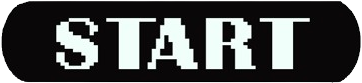
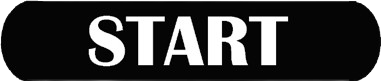
Buttons

diff --git a/core/src/main/java/io/github/testcar/GameoverMenu.java b/core/src/main/java/io/github/testcar/GameoverMenu.java
@@ -49,7 +49,7 @@ public class GameoverMenu implements Screen {
         Gdx.input.setInputProcessor(stage);
 
         // Play button texture
-        Texture resumebuttonTexture = new Texture("Resumebutton.png");
+        Texture resumebuttonTexture = new Texture("Restartbutton.png");
         TextureRegion buttonRegion = new TextureRegion(resumebuttonTexture);
         TextureRegionDrawable buttonDrawable = new TextureRegionDrawable(buttonRegion);
         ImageButton button1 = new ImageButton(buttonDrawable);

diff --git a/core/src/main/java/io/github/testcar/Main.java b/core/src/main/java/io/github/testcar/Main.java
@@ -12,8 +12,8 @@ public class Main extends Game {
     @Override
     public void create() {
         batch = new SpriteBatch();
-//        setScreen(new SplashScreen(new SpriteBatch()));
-        setScreen(new GameoverMenu(new SpriteBatch()));
+        setScreen(new SplashScreen(new SpriteBatch()));
+   //     setScreen(new GameoverMenu(new SpriteBatch()));
     }
 
     // No need to override render() - Game's render() method will handle it
